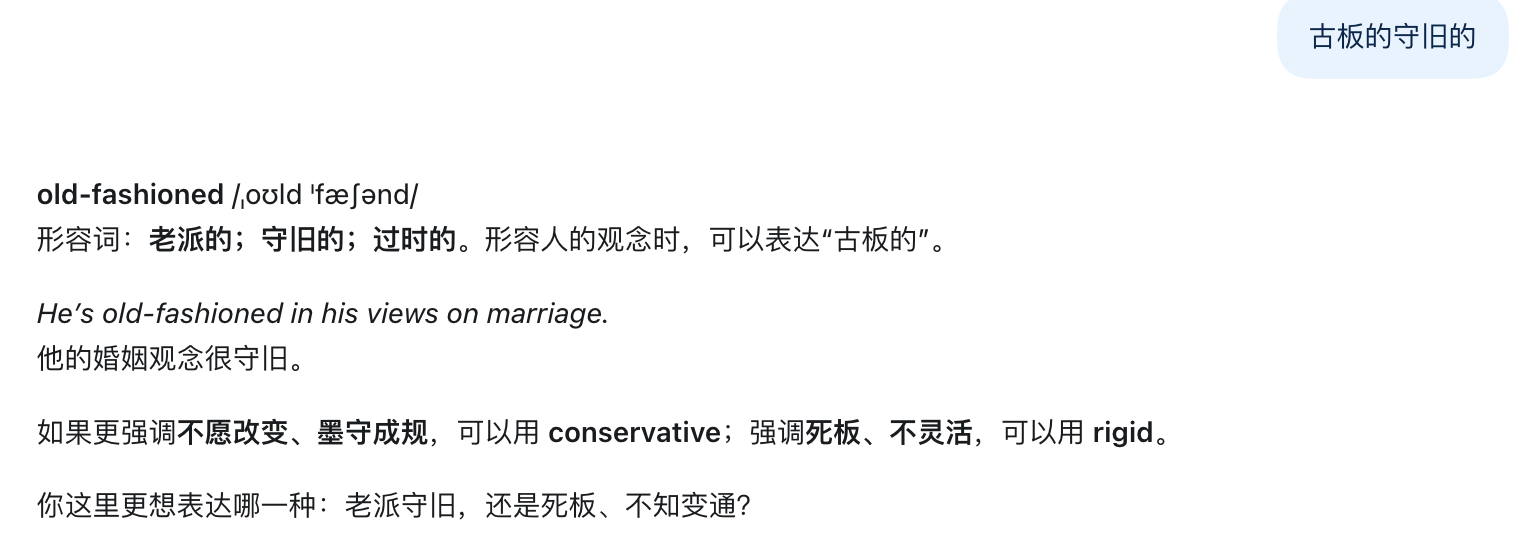
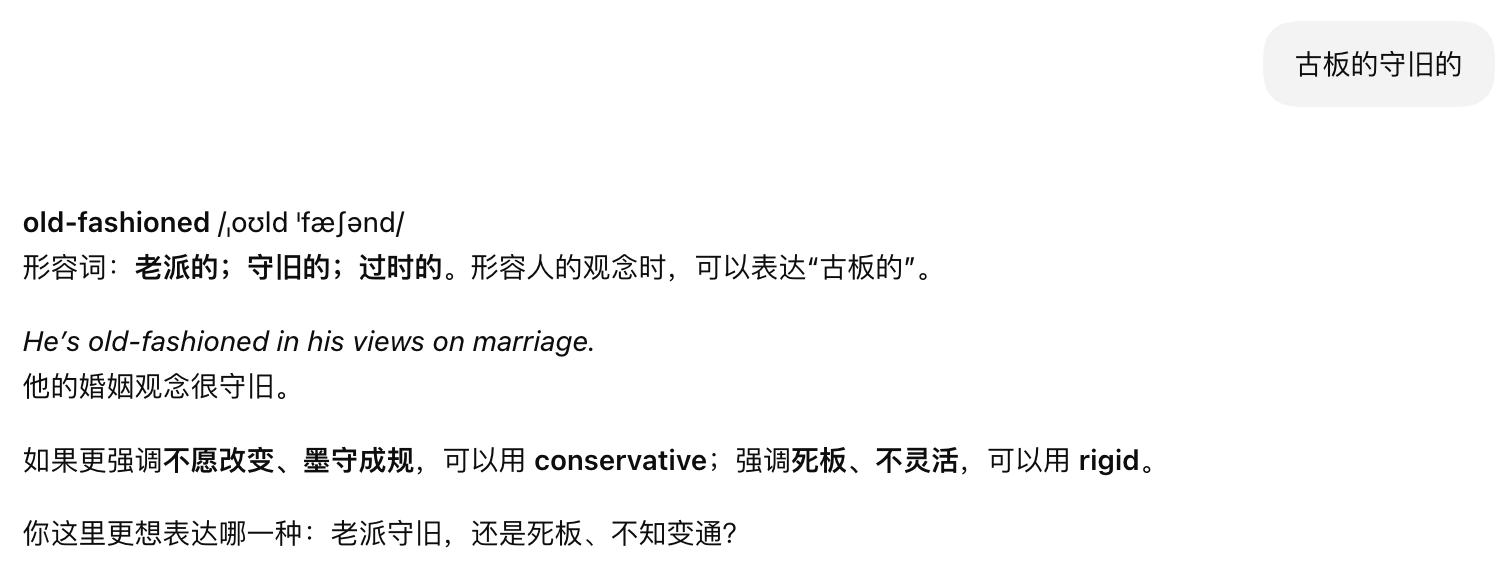
Clarify the README introduction and show the learning workflow

diff --git a/README.md b/README.md
@@ -1,50 +1,62 @@
 # Rue English Wordsnote
 
-## 平时查了很多词，为什么开口还是想不起来？
+## 解决「认识≠会用」的问题
 
-你是不是也有过这种感觉？看英文资料时，一个词出现，你马上就知道是什么意思。等到自己想表达同样的意思，那个词明明就在嘴边，却怎么也想不起来。
+你是不是也有过这种感觉？阅读英文资料时，一个词出现，你马上就知道是什么意思。等到自己想表达同样的意思，那个词明明就在嘴边，却怎么也想不起来。
 
 这就是**被动词汇**和**主动词汇**的区别。看到 *reluctant*，你知道它是「不情愿」。但在聊自己为什么不愿意当众说英语时，你能不能想起这个词，并说出 *I’m reluctant to speak English in public*？二语词汇研究发现，学习者能认出的词通常比能主动用出的词多，差距会随词频和测试方式变化。[相关研究](https://www.cambridge.org/core/journals/studies-in-second-language-acquisition/article/abs/receptive-and-productive-vocabulary-sizes-of-l2-learners/603A8FD24DBAA2874163DD36D8BAACA3)
 
-这个 Skill 的目的，是打造一个围绕使用者的定制单词本，帮助使用者把查过但不常用的被动词汇，逐步转化为能够自然使用的主动词汇。
+背单词可以帮助我们积累被动词汇，但是却很少能帮助我们训练主动词汇。
 
-## 打开以后怎么用？
+这个 Skill 的目的，是围绕使用者，打造一个定制单词本，帮助使用者把查过但不常用的被动词汇，通过「记录-练习-反馈」逐步转化为能够自然使用的主动词汇。
+
+## 打开以后怎么用
 
 在 Codex 里调用 `$rue-english-wordsnote` 就能开始。第一次使用可以先看[安装与首次配置](#安装与首次配置)。
 
-### 1. 英汉互译，直接发词就行
+### 1. 英汉互译，直接发词
 
-阅读时看到不认识的英文，直接发 `intonation`。表达时想不起英语怎么说，也可以只发中文词或短语，比如「不情愿」。AI 会先给解释和例句，把这次查询留在当前聊天。你说「同步到单词本」后，词条才会按词性保存到 Obsidian。
+阅读时看到不认识的英文，直接发单词就行，比如 `intonation`。
 
-![直接发送 intonation，AI 给出中文释义、例句，并区分语调和发音](examples/screenshots/word-lookup.png)
+![直接发送 intonation，AI 给出中文解释和例句](examples/screenshots/word-lookup.png)
 
-如果你翻译的是一整句话，AI 会先翻译，再挑出值得记的词或短语，让你选想留下的。
+表达时想不起英语怎么说，也可以只发中文词或短语，AI 会先给解释和例句。
 
-### 2. 汉译英拿不准语境时，AI 会给你几个选项
+![直接发送「一针见血的」，AI 给出 incisive、例句和常见搭配](examples/screenshots/chinese-to-english-lookup.png)
+
+你说「同步到单词本」后，词条才会按词性保存到 Obsidian。
+
+![主动同步后，AI 列出写入 Obsidian 的词条和辨析笔记](examples/screenshots/obsidian-sync.png)
+
+### 2. 汉译英拿不准语境时，AI 帮你区分近义词的用法
 
 比如你直接发「古板的守旧的」，AI 会区分 *old-fashioned*（观念老派）、*conservative*（在这里指守旧、不愿改变）和 *rigid*（死板、不灵活），再问你更想表达哪一种。
 
-![汉译英对话中，AI 给出三个不同译法并询问想表达的意思](examples/screenshots/chinese-to-english-options.png)
+![AI 区分 old-fashioned、conservative 和 rigid，并询问更想表达哪一种](examples/screenshots/chinese-to-english-options.png)
 
-你可以把选中的表达单独收为词条。说「同步到单词本」后，实际讨论过的近义表达会一起保存到 Obsidian 的「近义词」文件夹，方便下次遇到类似语境时再比较。下面是另一组「美化」的辨析笔记。
+你可以把选中的表达单独收为词条。说「同步到单词本」后，实际讨论过的近义表达会一起保存到 Obsidian 的「近义词」文件夹，方便下次遇到类似语境时再比较。
 
-![Obsidian 里的美化辨析笔记，列出六个译法、适用语境与常见搭配](examples/screenshots/obsidian-synonyms.png)
+比如，最后选了 *rigid*，它会单独保存为词条。另外两种说法会留在同一份辨析笔记里。
 
-### 3. 想练口语却不知道聊什么，就从自己的单词本里找话题
+### 3. 根据单词本生成口语练习场景
 
-你可以说「**从我的单词本里挑几个练得少、平时又用得上的词，给我一个场景。**」
+你可以说「**给我一个场景，我们来练一下单词本里的单词。**」AI 会给你场景、表达任务和英文目标词，并告诉你这个场景预计能用到单词本里的多少词条。
 
-比如，AI 可以请你跟朋友聊聊，你最近怎么用 AI 练英语、遇到了什么困难。开场会给你场景、任务和几个英文目标词。你可以从自己的经历说起，等你说「讲完了」，AI 再挑一两个地方点评，比如哪个词用得合适、哪个搭配可以改得更自然。然后你可以用自己的话重说一遍。想保存这次练习时，可以说「同步这次练习到单词本」。
+比如，你可以练习用英语给朋友的短视频提剪辑建议。
 
-![场景练习对话，展示口语任务、英文目标词和预计能用到的词条](examples/screenshots/scenario-practice.png)
+你可以分几段说。等你说「**讲完了**」，AI 再挑一两个地方点评，然后请你用自己的话重说。
+
+![说完后的用词反馈，以及用自己的话重说的提示](examples/screenshots/scenario-feedback.png)
 
 平时读到或听到一个好用的词，也可以顺手用它造一两个短句，或者用简单英语复述刚听懂的内容。影子跟读、练常用场景的小脚本、和语伴聊几句，也都可以搭配着练。
 
-### 4. 一个词好像查过好几次，就问问单词本
+### 4. 看看哪些词反复查过
 
-你可以问「**过去一周，我有哪些词查了不止一次？**」AI 会按原查询日期统计，把重复查过的词按次数列出来。如果这段时间查过的词都只问了一次，它会直接告诉你。
+你可以问「过去一周，我有哪些词查了不止一次？」AI 会按原查询日期统计，把重复查过的词按次数列出来。如果这段时间查过的词都只问了一次，它会直接告诉你。
 
 反复查到的词可以优先放进下一次练习。比如，下次直接说「用我这周查得最多的几个词，给我一个能自然用上它们的场景。」
+
+![过去一周 utility 查了两次，用户把它指定为下一次口语练习的重点](examples/screenshots/repeat-lookup.png)
 
 ## 安装与首次配置
 
